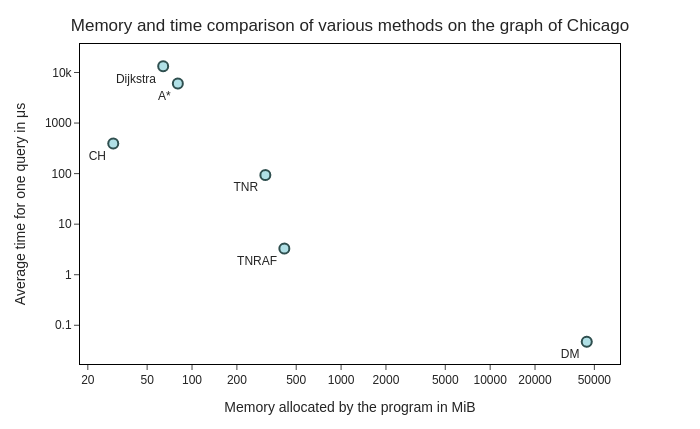
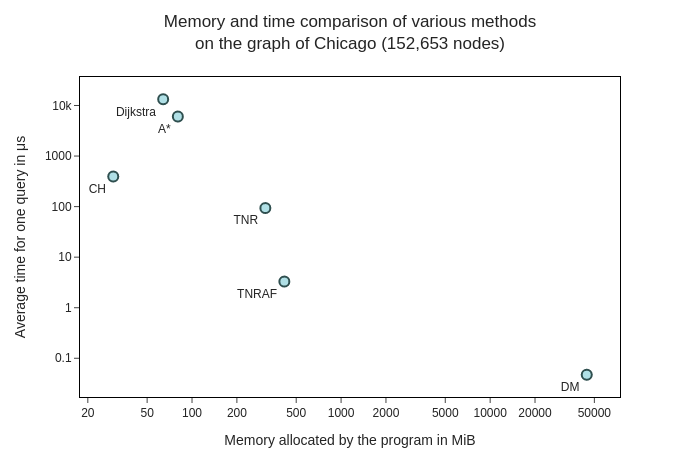
add node count to benchmarking plots

diff --git a/Python/scripts/benchmark_plot.py b/Python/scripts/benchmark_plot.py
@@ -1,14 +1,14 @@
 import pandas
 import plotly.express as px
 
-INSTANCE = "DC"
-LONG_NAME = "Washington, D. C."
+INSTANCE = "Chicago"
+LONG_NAME = "Chicago (152,653 nodes)"
 
 df = pandas.read_csv(f"benchmark_{INSTANCE}.csv")
 
 fig = px.scatter(
     df, x="memory", y="time", text="label", labels="", log_x=True, log_y=True, template="simple_white",
-    title=f"Memory and time comparison of various methods on the graph of {LONG_NAME}")
+    title=f"""Memory and time comparison of various methods<br>on the graph of {LONG_NAME}""")
 
 fig.update_traces(marker=dict(size=10, color="powderblue", line=dict(width=2, color="DarkSlateGrey")))
 fig.update_xaxes(linecolor="black", mirror=True, title_text="Memory allocated by the program in MiB", tickformat = ".1r")
@@ -20,7 +20,7 @@ fig.update_layout(
     title={
         "x": 0.5,
         "xanchor": "center",
-        "y": 0.85,
+        "y": 0.9,
         "yanchor": "top"
     }
 )
